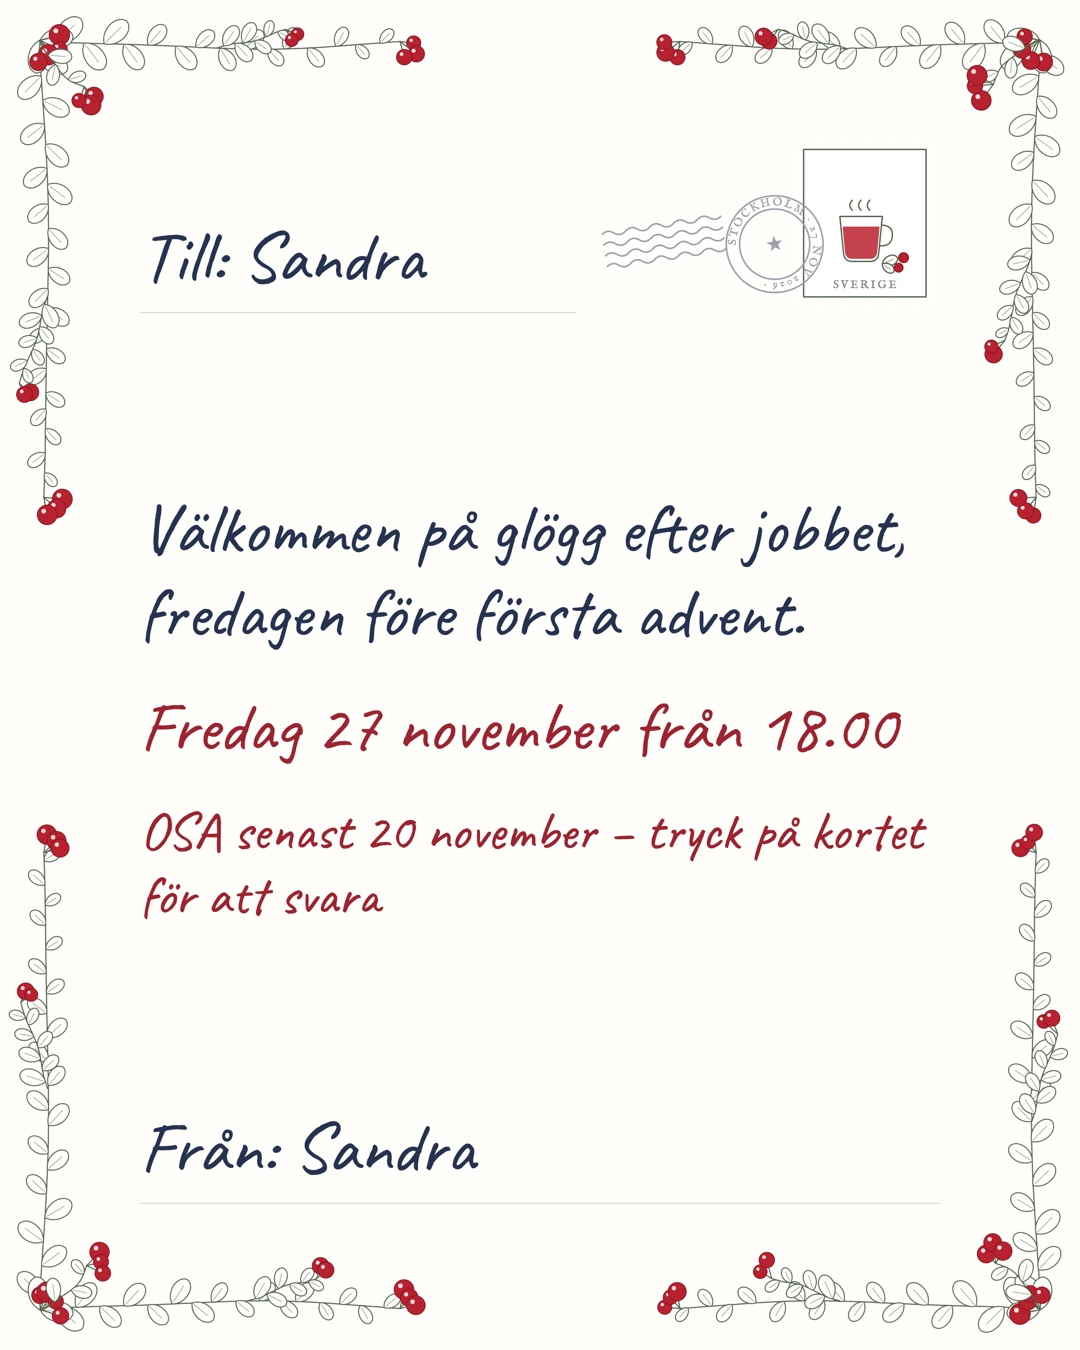
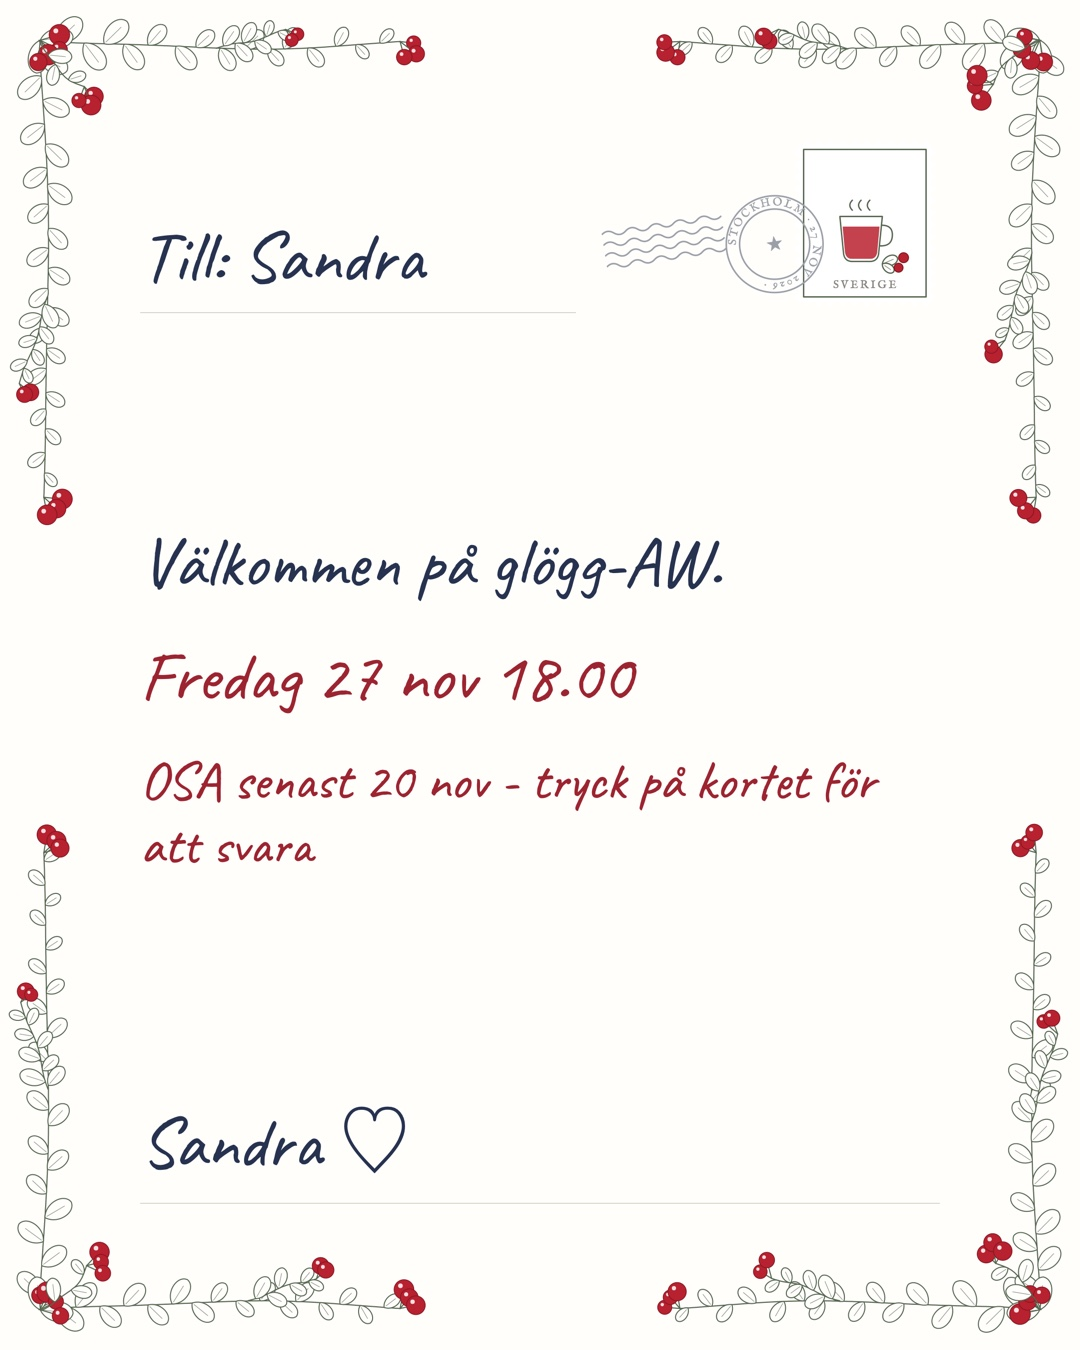
Card text: Välkommen på glögg-AW, signed Sandra ♡

Changed region(s): [[0.1222, 0.3733, 0.8556, 0.6844], [0.1222, 0.8089, 0.4583, 0.8711], [0.7028, 0.3733, 0.825, 0.4044]]

diff --git a/card.html b/card.html
@@ -28,10 +28,10 @@
 <script src="lingon.js"></script>
 <script>
   const T = {
-    sv: { to: 'Till: dig ♡', msg: 'Välkommen på glögg efter jobbet, fredagen före första advent.',
-          when: 'Fredag 27 november från 18.00', osa: 'OSA senast 20 november – tryck på kortet för att svara', from: 'Från: Sandra' },
-    en: { to: 'To: you ♡', msg: 'Come for glögg after work, the Friday before the first of Advent.',
-          when: 'Friday 27 November from 6 pm', osa: 'RSVP by 20 November – tap the card to reply', from: 'From: Sandra' },
+    sv: { to: 'Till: dig ♡', msg: 'Välkommen på glögg-AW.', when: 'Fredag 27 nov 18.00',
+          osa: 'OSA senast 20 nov - tryck på kortet för att svara', from: 'Sandra ♡' },
+    en: { to: 'To: you ♡', msg: 'Welcome to glögg after work.', when: 'Friday 27 Nov 6 pm',
+          osa: 'RSVP by 20 Nov - tap the card to reply', from: 'Sandra ♡' },
   };
   const W = 1080, H = 1350;
   const lang = new URLSearchParams(location.search).get('lang') === 'en' ? 'en' : 'sv';

diff --git a/t/sandra-stmfy/index.html b/t/sandra-stmfy/index.html
@@ -8,7 +8,7 @@
 <meta property="og:type" content="website">
 <meta property="og:title" content="Glögg efter jobbet 🍷">
 <meta property="og:description" content="Fredag 27 november – tryck här för att svara">
-<meta property="og:image" content="https://sandragrennard-hash.github.io/glogg/t/sandra-stmfy/card.jpg?v=1793713645">
+<meta property="og:image" content="https://sandragrennard-hash.github.io/glogg/t/sandra-stmfy/card.jpg?v=1793714019">
 <meta property="og:image:width" content="1080">
 <meta property="og:image:height" content="1350">
 <meta name="twitter:card" content="summary_large_image">

diff --git a/index.html b/index.html
@@ -8,7 +8,7 @@
 <meta property="og:type" content="website">
 <meta property="og:title" content="Glögg efter jobbet 🍷">
 <meta property="og:description" content="Fredag 27 november – tryck här för att svara">
-<meta property="og:image" content="https://sandragrennard-hash.github.io/glogg/card-sv.jpg?v=3">
+<meta property="og:image" content="https://sandragrennard-hash.github.io/glogg/card-sv.jpg?v=4">
 <meta property="og:image:width" content="1080">
 <meta property="og:image:height" content="1350">
 <meta name="twitter:card" content="summary_large_image">

diff --git a/en/index.html b/en/index.html
@@ -8,7 +8,7 @@
 <meta property="og:type" content="website">
 <meta property="og:title" content="Glögg after work 🍷">
 <meta property="og:description" content="Friday 27 November – tap here to reply">
-<meta property="og:image" content="https://sandragrennard-hash.github.io/glogg/card-en.jpg?v=3">
+<meta property="og:image" content="https://sandragrennard-hash.github.io/glogg/card-en.jpg?v=4">
 <meta property="og:image:width" content="1080">
 <meta property="og:image:height" content="1350">
 <meta name="twitter:card" content="summary_large_image">
